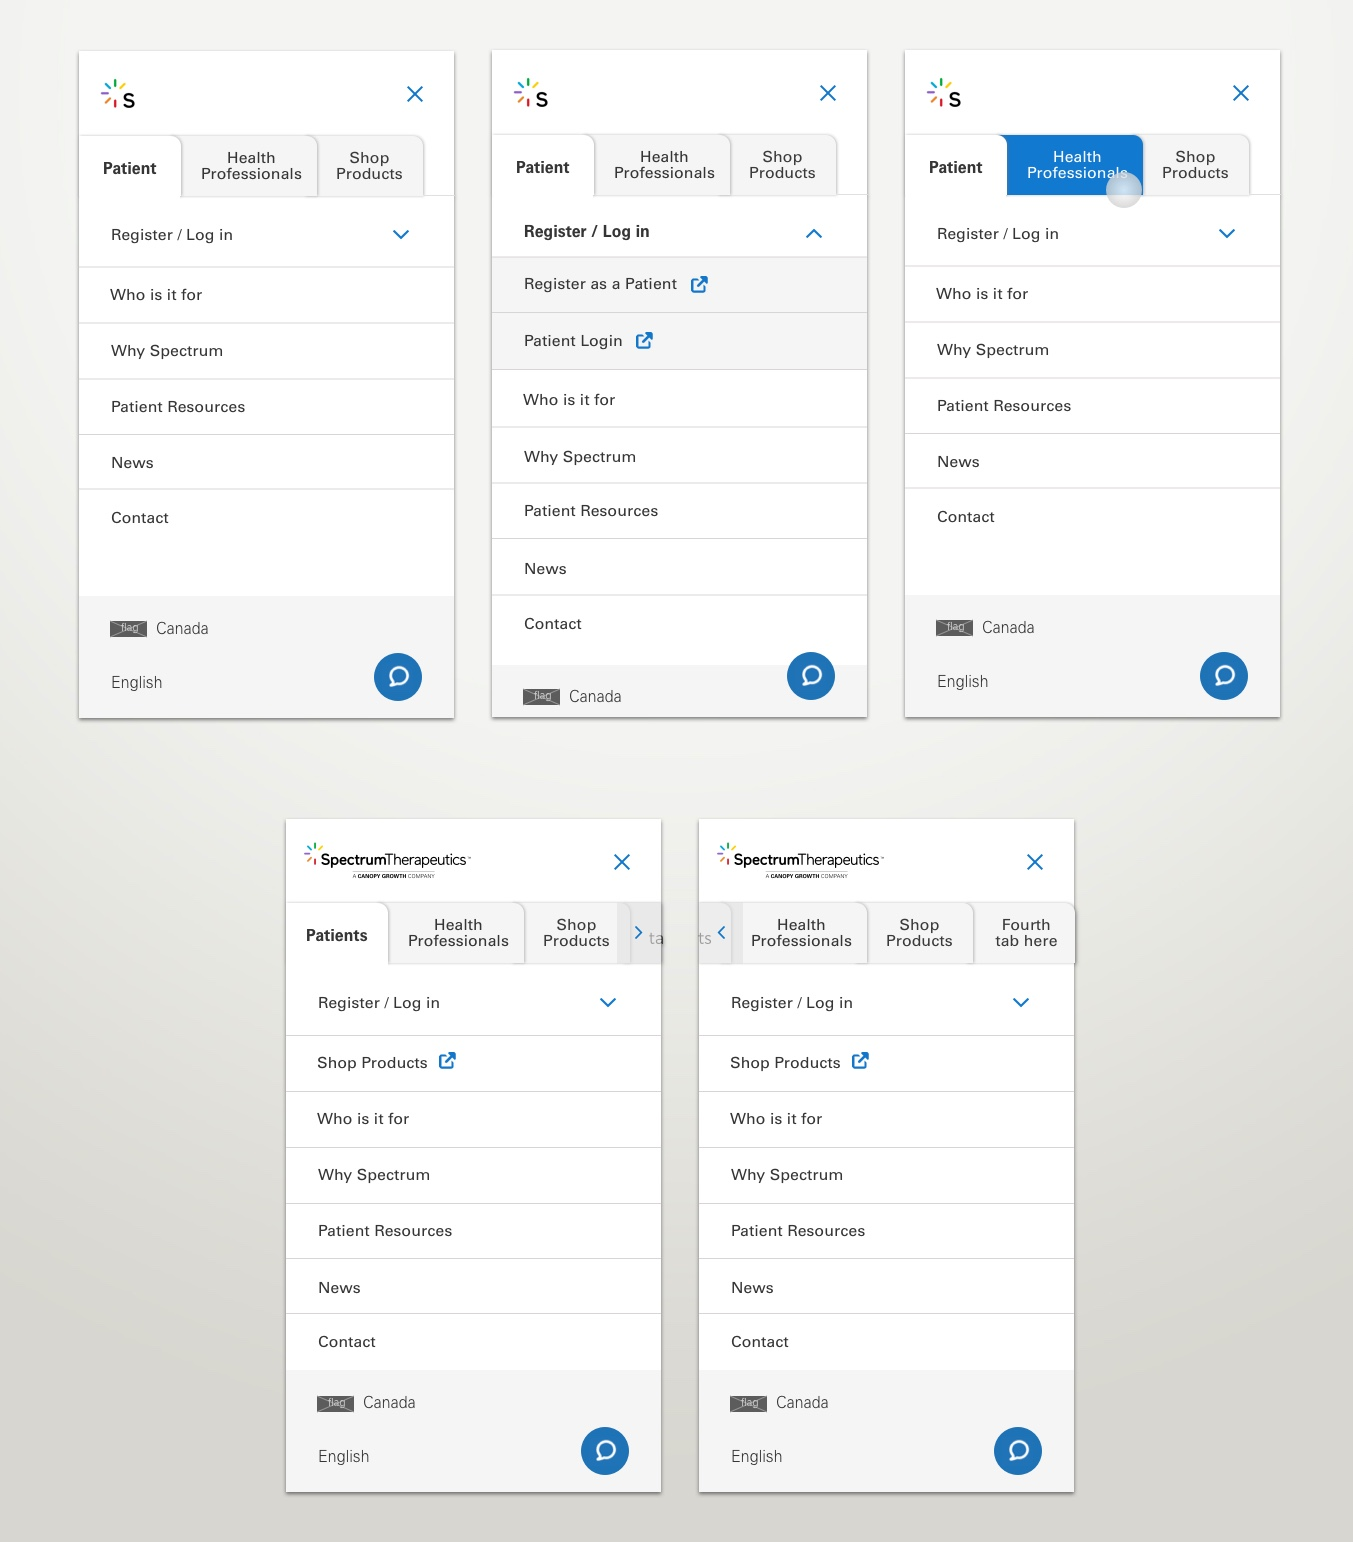
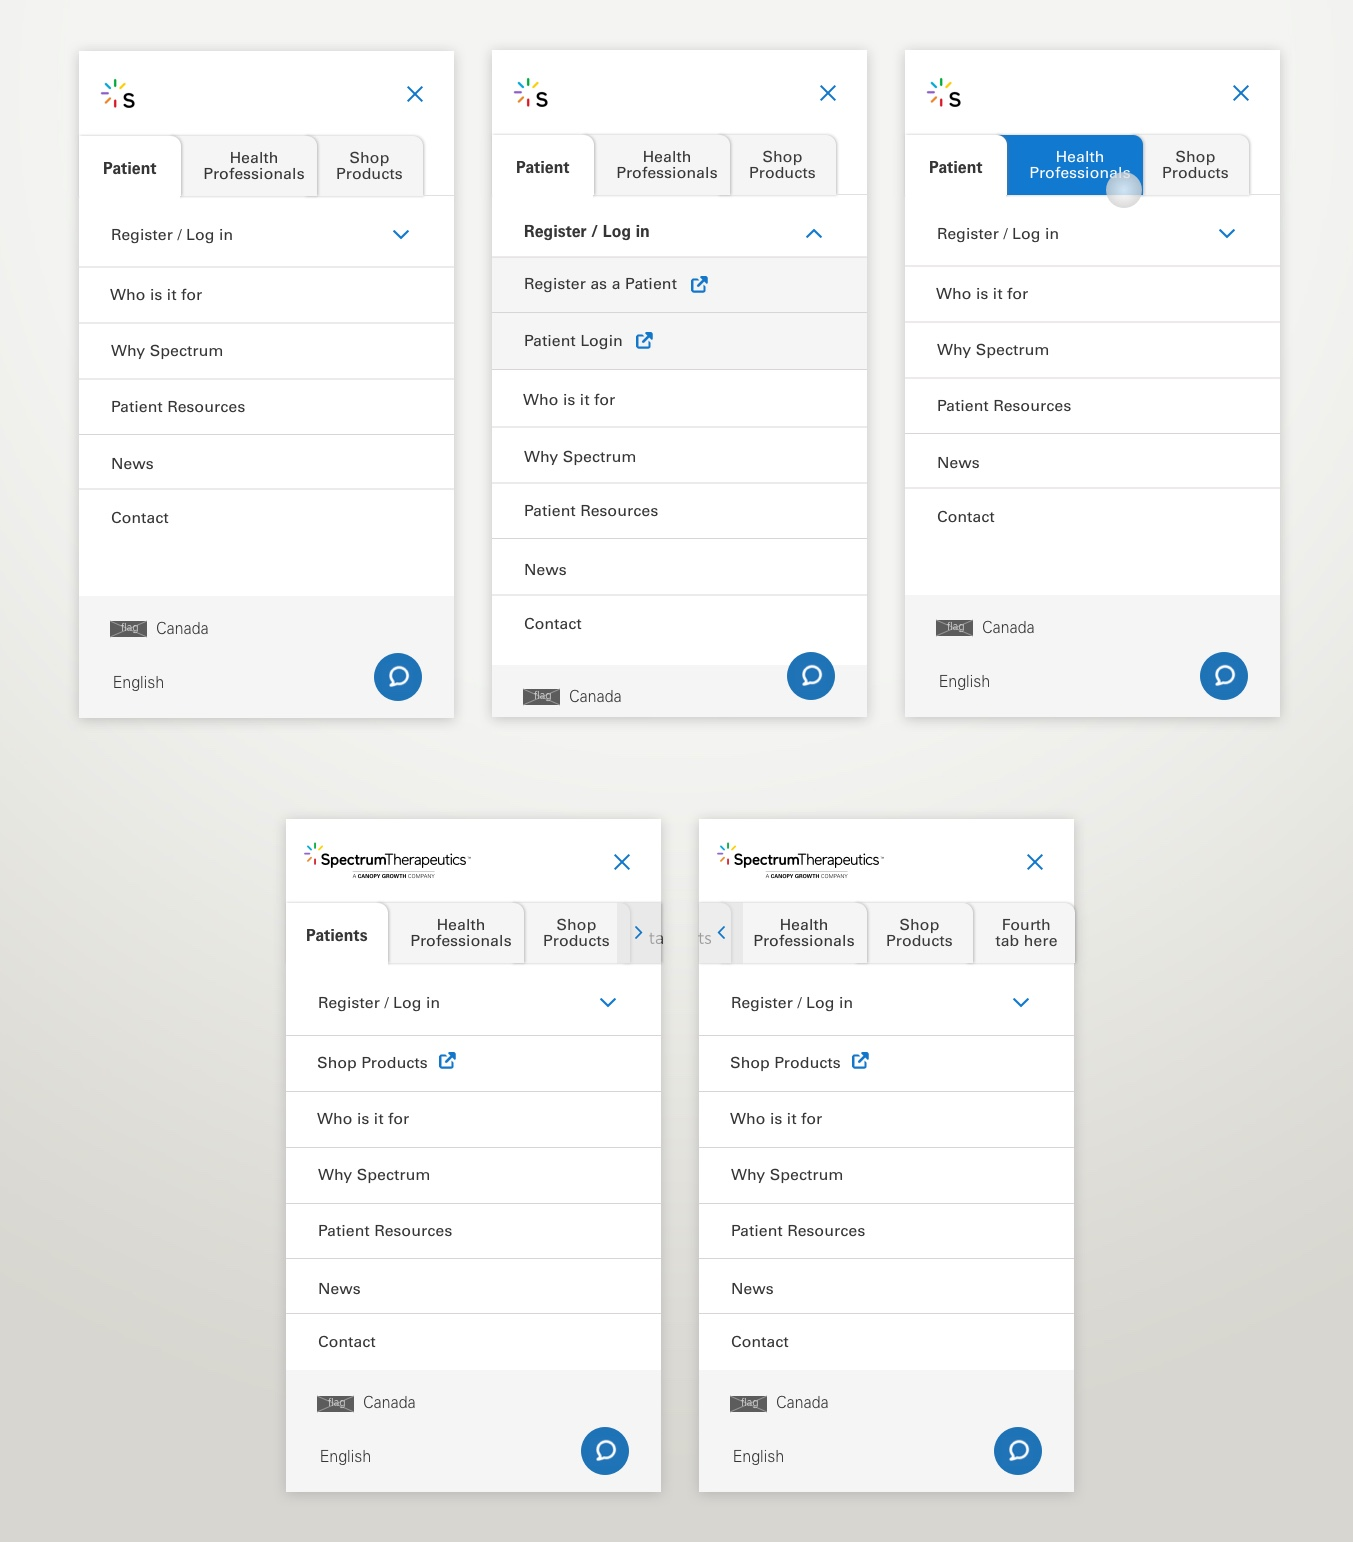
nav project

diff --git a/projects/spectrumnav.html b/projects/spectrumnav.html
@@ -71,9 +71,9 @@
                         </figure>
                         <div class="project__client-info">
                             <h3 class="project__client-heading">Purpose</h3>
-                            <p class="project__client-text">As a UX lead for optimizing Spectrum Therapeutic’s website while working at Canopy Growth, the navigation was one of the first problems that needed to be solved to create a seamless experience for potential new health professionals and patients. The second problem was because the navigation was first built using three different web services (AEM, Shopify and a portal).</p>
+                            <p class="project__client-text">As a UX lead for optimizing Spectrum Therapeutic’s website while working at Canopy Growth, the navigation and content were one of the first problems that needed to be solved to create a seamless experience for health professionals and patients. The plan was to add more educational content without over cluttering the current navigation. The second problem was because the navigation was first built using three different web services (AEM, Shopify and a portal) which resulted in a broken experience for logged in users.</p>
                             <h3 class="project__client-heading">Results</h3>
-                            <p class="project__client-text">The initial idea was to merge all three into one web service, but this decision later on had to change due to budget and priority adjustments. I ended up changing it slightly to meet the new technical requirements and split in a three tabbed approach.</p>
+                            <p class="project__client-text">The initial idea was to merge all three into one web service, but this decision, later on,had to change due to budget and priority adjustments. I ended up changing it slightly to meet the new technical requirements and split in a three tabbed approach, whereas the original approach was to only keep Health Professionals and Patients separated with Shop merged in Patients.</p>
                         </div>
                     </div>
                 </div>
@@ -84,7 +84,7 @@
                 <div class="row">
                     <div class="col col--sm-10 col--sm-offset-1 col--md-10 col--md-offset-1 col--lg-8 col--lg-offset-2">
                         <p class="project__description-text">
-                        I had to try to understand both health professionals and patients in the medical cannabis space. I asked for some preliminary research that was conducted a while back, and I took the initiative to plan and test both user groups to explore the website. I wanted to observe how different they are in navigating through the site while being asked particular task questions.
+                        I had to try to understand both health professionals and patients in the medical cannabis space. I asked for some preliminary research that was conducted a while back, and I took the initiative to plan and test both user groups to explore the website. I wanted to observe how different they are in navigating through the site while being asked particular task questions. We also identified through insights from Customer Care that there was a problem for existing customers that noticed the confusing changes between AEM and Shopify navigation that seem to be the same but don'tt have consistent login status. 
                         </p>
                         <p>The user research was done via UserTesting for flexibility and time efficiency as the project had a tight deadline along with other tasks I managed. As a reminder, during this time at Canopy Growth, we were only a team of three UX designers.</p>
                     </div>
@@ -105,6 +105,7 @@
                         <li>A few patients thought the info on THC/CBD was too complex for them and not enough info on conditions/illnesses</li>
                         <li>A few were expecting The Spectrum page was going to be like the About Us page</li>
                         <li>Most explored the Patients and The Spectrum pages to learn about the company and medical cannabis</li>
+                        <li>Some patients went directly to the Shop and attempted to learn more about the products and medical cannabis by trying to find their way back, noticing they were on a different website</li>
                         </ul>
                     
                         </div>
@@ -161,7 +162,7 @@
                         <p class="project__description-text">
                         As for the Patients side of the user journeys, I took some of the insights from the first round of testing and a second round of testing in parallel with another project that involved improving the content. I used the second round of testing to further improve the navigation from the patients' perspective.
                          </p>
-                         <p>As part of the process of re-designing the navigation, I created sitemaps to demonstrate the new structure more easily at a glance for stakeholders and developers to understand.</p>
+                         <p>As part of the process of re-designing the navigation, I created sitemaps and user flows to demonstrate the new structure more easily at a glance for stakeholders and developers to understand.</p>
                     </div>
                 </div>
             </div>
@@ -184,6 +185,7 @@
                         <p class="project__description-text">
                         Overall, I lead the navigation re-design from discovery and planning to the interaction design and look and feel, while collaboratively working with stakeholders. At the final stages of the project, I was working closely with the front-end developers to ensure the vision was met. I also made sure that the Adobe Experience Manager (AEM) and Shop navigations were about 100% the same as they were developed by different developers.  
                          </p>
+                         <p>The end result of the new navigation will not only support a more seamless experience for each user group but also support a clear journey to more educational content.</p>
                     </div>
                 </div>
             </div>
@@ -203,6 +205,15 @@
                                 <div class="col col--sm-12 col--md-12 col--lg-10 col--lg-offset-1">
                                     <figure class="project__img project__img--secondary">
                                         <img src="img/6big-6.jpg" alt="desktop nav">
+                                    </figure>
+                                </div>
+                            </div>
+                        </div>
+                        <div class="container">
+                            <div class="row">
+                                <div class="col col--sm-12 col--md-12 col--lg-10 col--lg-offset-1">
+                                    <figure class="project__img project__img--secondary">
+                                        <img src="img/6big-8.jpg" alt="before and after nav">
                                     </figure>
                                 </div>
                             </div>
@@ -291,17 +302,6 @@
             </div>
         </a>
     </div>
-    
-        <div class="portfolio__item">
-            <a href="fitness.html" target="_top" class="portfolio__item-link">
-                <div class="portfolio__item-img">
-                    <img src="img/12.jpg" alt="IOT Fitness concepts">
-                </div>
-                <div class="portfolio__item-title">
-                    <h5 class="portfolio__title">IOT Fitness Concepts</h5>
-                </div>
-            </a>
-        </div>
 
     <div class="portfolio__item">
         <a href="carwebsite.html" target="_top" class="portfolio__item-link">
@@ -365,6 +365,27 @@
             </div>
             <div class="portfolio__item-title">
                 <h5 class="portfolio__title">Creative TV Application</h5>
+            </div>
+        </a>
+    </div>
+        <div class="portfolio__item">
+        <a href="portal.html" target="_top" class="portfolio__item-link">
+            <div class="portfolio__item-img">
+                <img src="img/11.jpg" alt="Health portal redesign">
+            </div>
+            <div class="portfolio__item-title">
+                <h5 class="portfolio__title">Health Portal Redesign</h5>
+            </div>
+        </a>
+    </div>
+    
+    <div class="portfolio__item">
+        <a href="crea.html" target="_top" class="portfolio__item-link">
+            <div class="portfolio__item-img">
+                <img src="img/14.jpg" alt="Architector&#39;s portfolio">
+            </div>
+            <div class="portfolio__item-title">
+                <h5 class="portfolio__title">Realtor.ca Testing</h5>
             </div>
         </a>
     </div>
